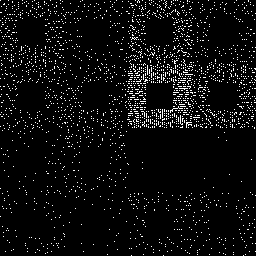
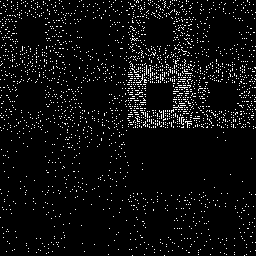
ZERO ERROR DECODE

diff --git a/textual-geometry/src/main.rs b/textual-geometry/src/main.rs
@@ -22,14 +22,14 @@ fn main() {
 }
 
 fn encode_decode(input_txt: String, cwd: &str) {
-    // let hex_sample = "000000000000";
+    // let hex_sample = "00000000";
     // let mut hex_str = String::default();
-    // for _ in 0..=15 {
+    // for _ in 0..=200 {
     //     hex_str.push_str(hex_sample);
     // }
 
     let hex_str = hex::encode(input_txt);
-    println!("Original: {}", hex_str);
+    println!("OG: {}", hex_str);
 
     let dim = 256;
     let mut spiral_geo = SpiralGeometry::new(dim);
@@ -45,7 +45,7 @@ fn encode_decode(input_txt: String, cwd: &str) {
     let mut geometry = SpiralGeometry::new(pregeometry.0 .0);
     // let mut geometry = SpiralGeometry::new(pregeometry.0.0);
     let reconstructed = geometry.reverse(pregeometry).unwrap();
-    println!("Reconstructed: {}", reconstructed);
+    println!("RE: {}", reconstructed);
 
     let bytes = hex::decode(reconstructed).unwrap();
     // let s = std::str::from_utf8(&bytes).unwrap();

diff --git a/textual-geometry/src/geometry/spiral_geometry.rs b/textual-geometry/src/geometry/spiral_geometry.rs
@@ -34,25 +34,25 @@ impl SpiralGeometry {
         while inner_offset < outer_offset_step / 2 {
             // top to right
             while x < (outer_offset_step - inner_offset - 1) {
-                x += 1;
                 cb(x, y);
+                x += 1;
             }
             // right to bottom
             while y < (outer_offset_step - inner_offset - 1) {
-                y += 1;
                 cb(x, y);
+                y += 1;
             }
 
             // bottom to left
             while x > inner_offset {
-                x -= 1;
                 cb(x, y);
+                x -= 1;
             }
 
             // left to top
             while y > inner_offset {
-                y -= 1;
                 cb(x, y);
+                y -= 1;
             }
 
             // increase inner offset
